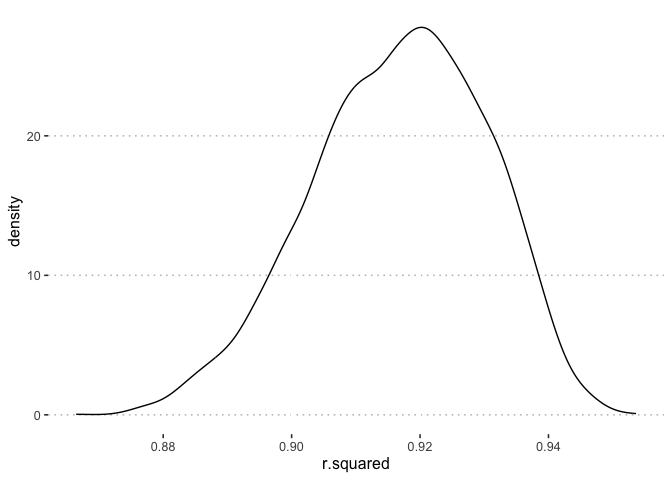
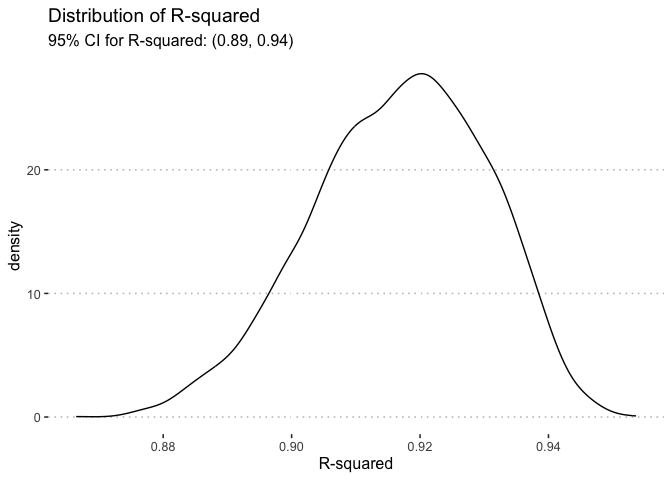
comments on Problem 2!

diff --git a/p8105_hw6_yq2378.md b/p8105_hw6_yq2378.md
@@ -159,10 +159,22 @@ weather =
 
     ## file min/max dates: 1869-01-01 / 2023-11-30
 
+### $\log \left(\hat{\beta}_1 \times \hat{\beta}_2\right)$ Distribution
+
+This distribution has a heavy tail extending to low values and a bit of
+a “shoulder”. The density plog of
+$\log \left(\hat{\beta}_1 \times \hat{\beta}_2\right)$ values represents
+the variability in the logarithmic product of the estimated coefficients
+for `tmin` and `prxp` in the linear regression model. The value centers
+around -6. This quantity captures the joint effect of the predictors on
+`tmax`. The spread provides insights into the uncertainty associated
+with this combined predictor influence.
+
 ``` r
 # prepocessing? 
 
-weather |> 
+beta = 
+  weather |> 
   modelr::bootstrap(n = 5000) |> 
   mutate(
     models = map(strap, \(df) lm(tmax ~ tmin + prcp, data = df)),
@@ -171,8 +183,7 @@ weather |>
   unnest(results) |> 
   filter(term %in% c('tmin', 'prcp')) |>
   group_by(.id) |>
-  summarise(estimate = log(prod(estimate))) |>
-  ggplot(aes(x = estimate)) + geom_density() + theme_pubclean()
+  summarise(estimate = log(prod(estimate))) 
 ```
 
     ## Warning: There were 3361 warnings in `summarise()`.
@@ -183,21 +194,45 @@ weather |>
     ## ! NaNs produced
     ## ℹ Run `dplyr::last_dplyr_warnings()` to see the 3360 remaining warnings.
 
+``` r
+CI_beta_squared = quantile(beta$estimate, c(0.025, 0.975),na.rm = TRUE)
+ggplot(beta,aes(x = estimate)) + geom_density() + theme_pubclean() + 
+  labs(title = "Distribution of log(beta1 * beta2)", x = "log(beta1 * beta2)",
+       subtitle = paste("95% CI for R-squared: ","(", round(CI_beta_squared[1],2),", ", round(CI_beta_squared[2],2),")", sep ="")) 
+```
+
     ## Warning: Removed 3361 rows containing non-finite values (`stat_density()`).
 
-![](p8105_hw6_yq2378_files/figure-gfm/beta%20prod-1.png)<!-- -->
+<img src="p8105_hw6_yq2378_files/figure-gfm/beta prod-1.png" style="display: block; margin: auto;" />
+
+### $R^2$ Distribution
+
+The distribution of $R^2$ values reflects the variability in how well
+the linear regression model explains the variance in the maximum
+temperature. The density plot shows a range of $R^2$ values obtained
+from 5000 bootstrap samples. It is roughly bell shape. Higher $R^2$
+values indicate a better fit of the model, while lower values suggest
+less explanatory power. The distribution helps us understand the
+uncertainty in estimating the goodness-of-fit for the given predictors
+(`tmin` and `prcp`). The most frequent values range from 0.91 to 0.93,
+which is a pretty good fit.
 
 ``` r
 # prepocessing? 
-weather |> 
+R2 = 
+  weather |> 
   modelr::bootstrap(n = 5000) |> 
   mutate(
     models = map(strap, \(df) lm(tmax ~ tmin + prcp, data = df)),
     results = map(models, broom::glance)) |> 
   select(results) |> 
   unnest(results) |>
-  select(r.squared) |>
-  ggplot(aes(x = r.squared)) + geom_density() + theme_pubclean()
+  select(r.squared) 
+
+CI_r_squared = quantile(R2$r.squared, c(0.025, 0.975))
+ggplot(R2,aes(x = r.squared)) + geom_density() + theme_pubclean() + 
+  labs(title = "Distribution of R-squared", x = "R-squared",
+       subtitle = paste("95% CI for R-squared: ","(", round(CI_r_squared[1],2),", ", round(CI_r_squared[2],2),")", sep ="")) 
 ```
 
-![](p8105_hw6_yq2378_files/figure-gfm/R2%20prod-1.png)<!-- -->
+<img src="p8105_hw6_yq2378_files/figure-gfm/R2 prod-1.png" style="display: block; margin: auto;" />
